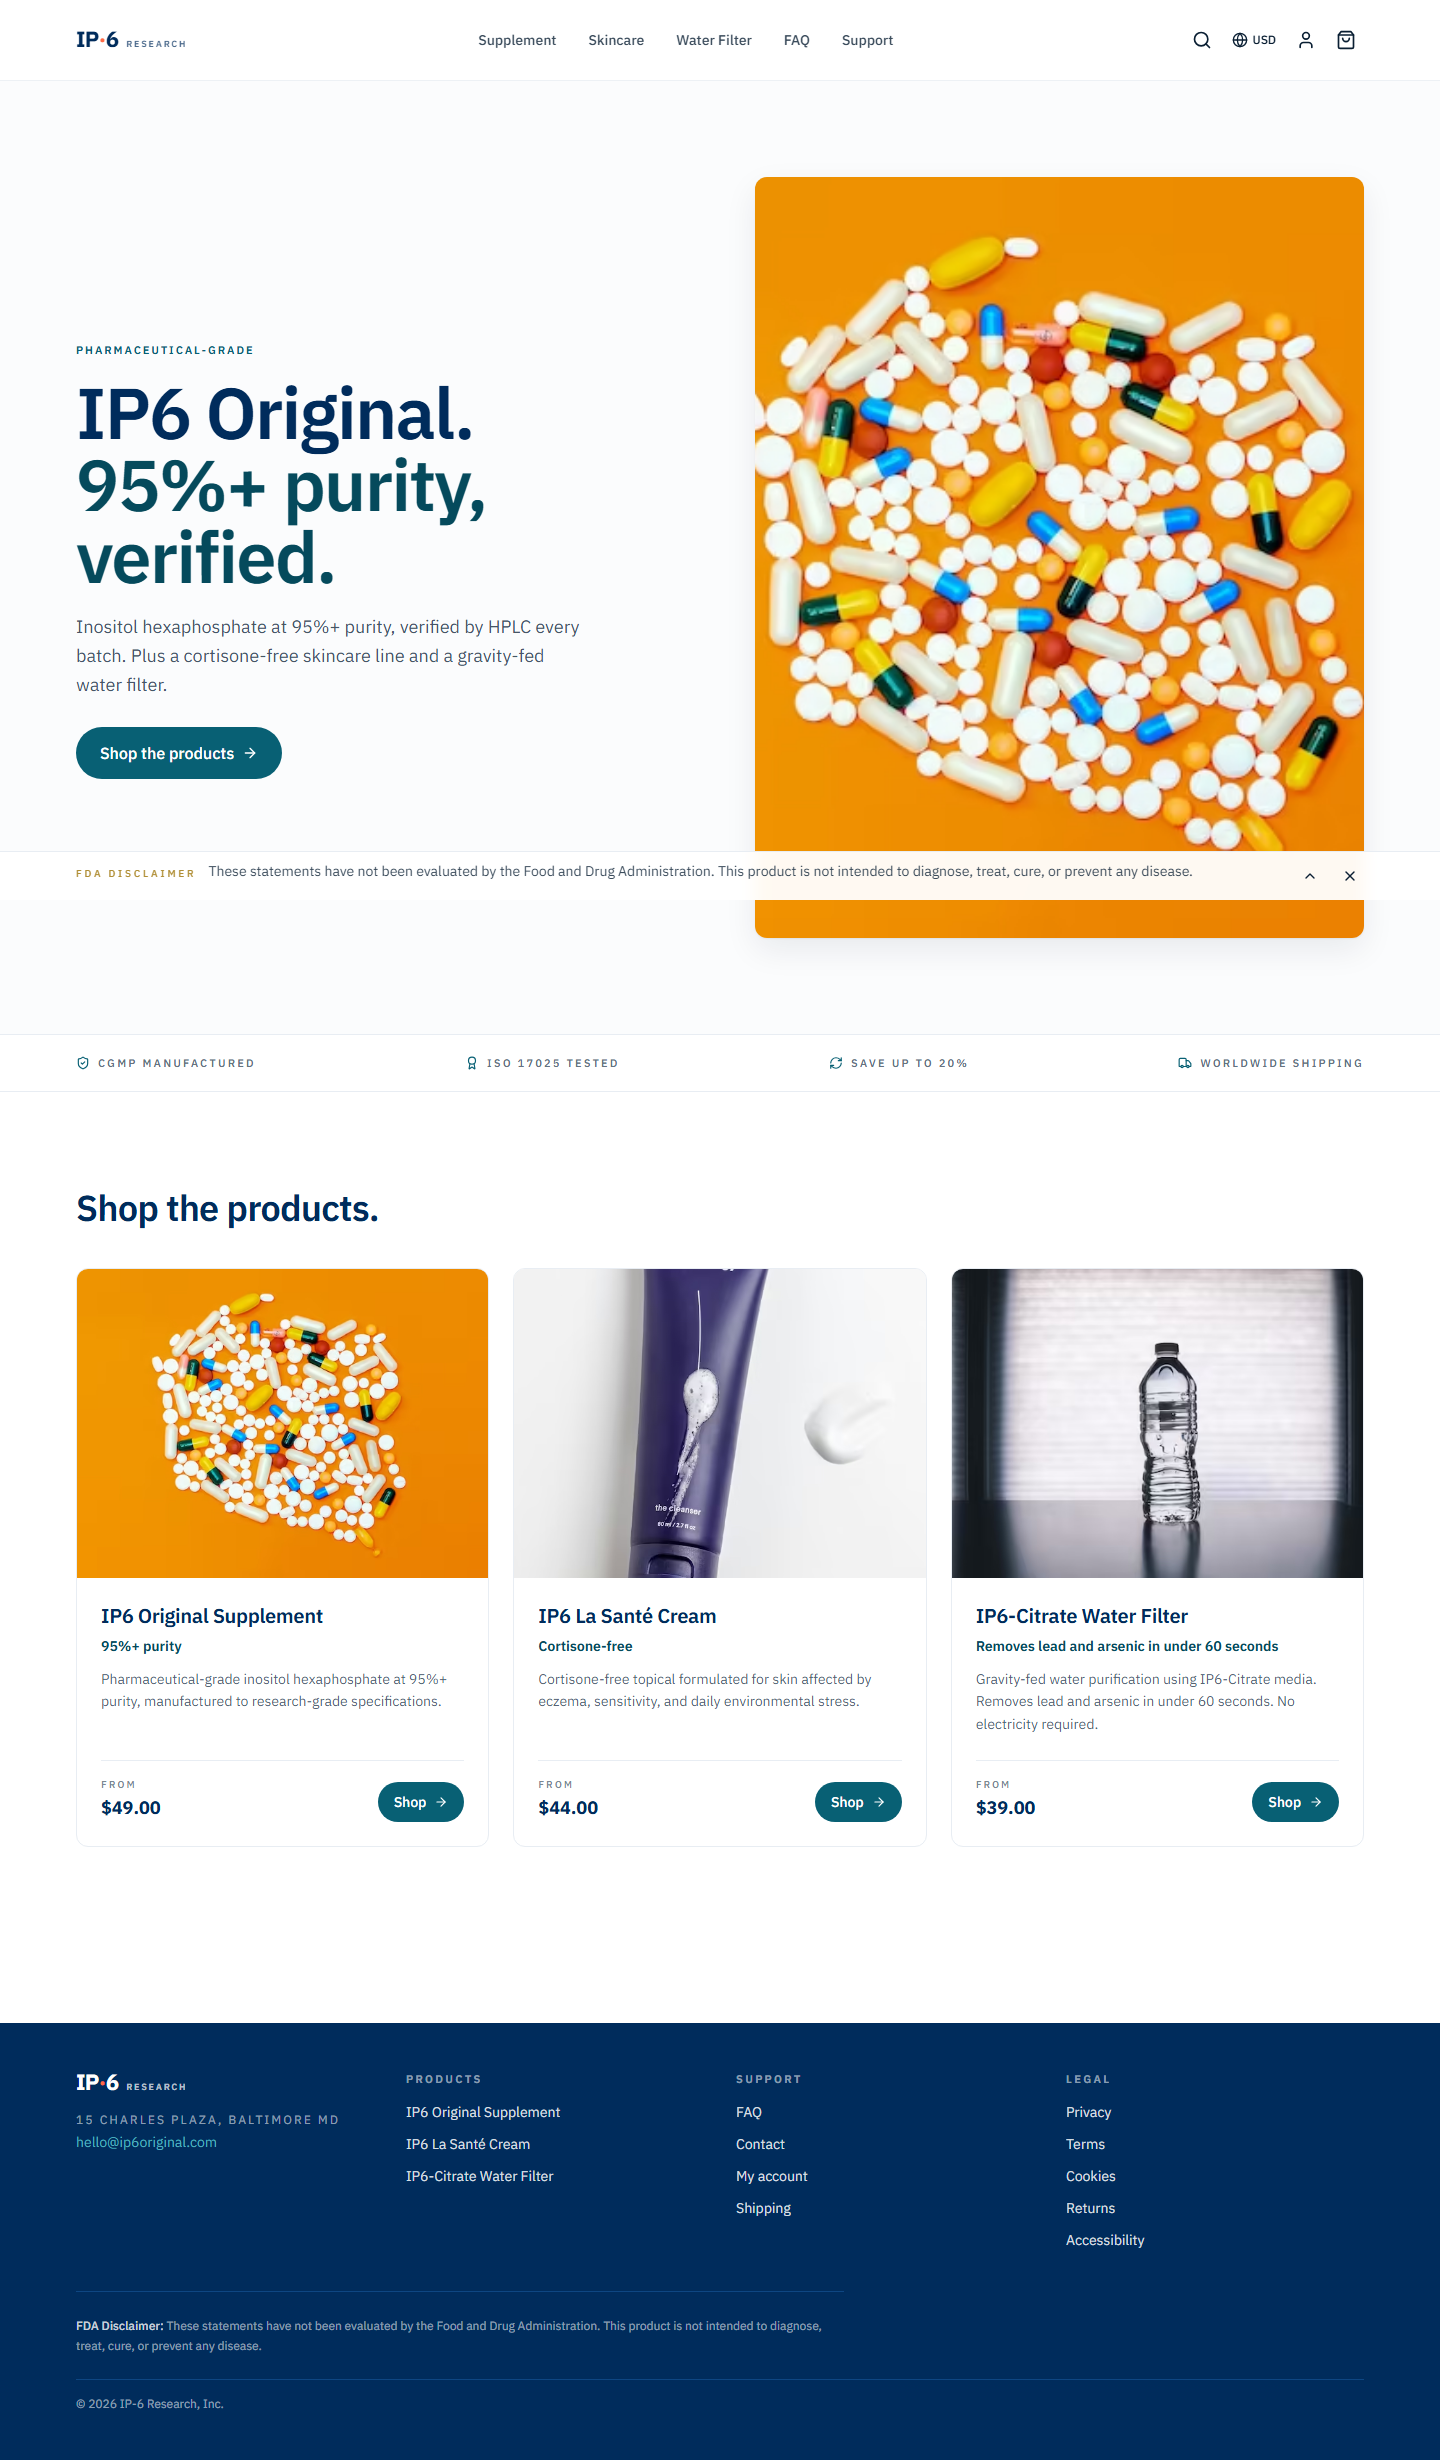
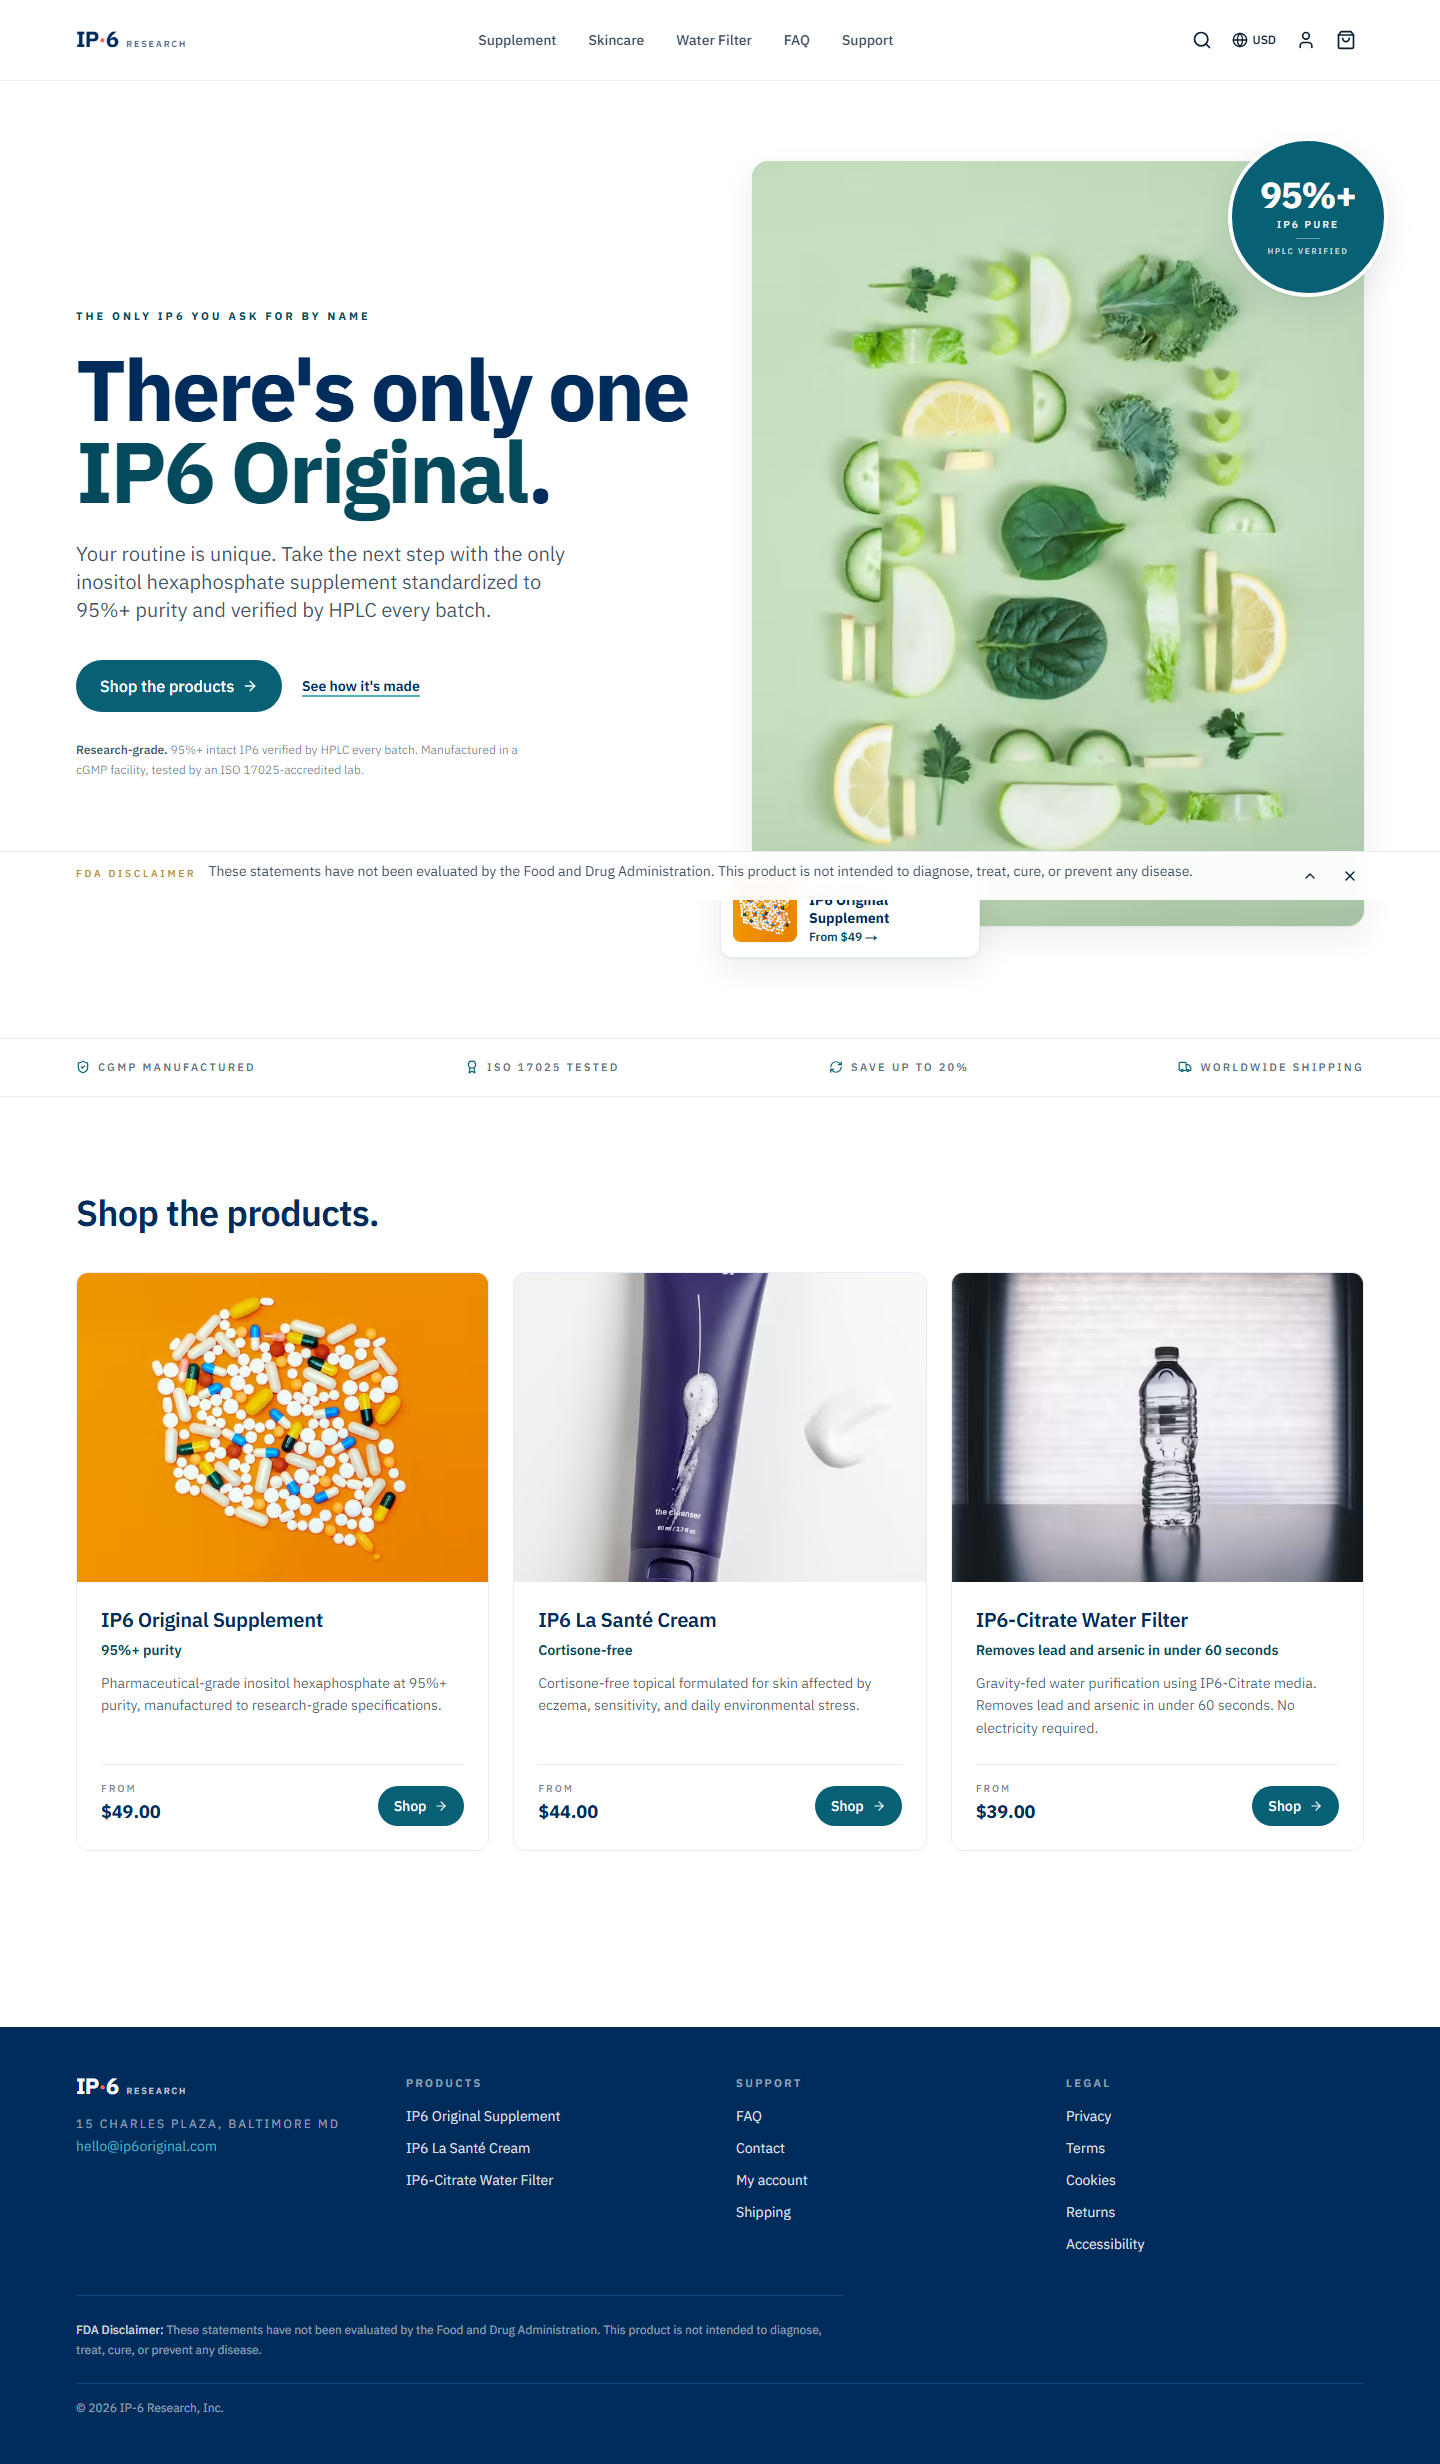
Dramatic hero overhaul: literal Ozempic-style composition
Direct one-to-one match with ozempic.com hero structure:
  Eyebrow:        "The only IP6 you ask for by name"
  Headline:       "There's only one IP6 Original."
                  (sky-blue accent on the brand name, oversized sans)
  Subhead:        Single sentence, lead-in voice
  Primary CTA:    Rounded teal pill, "Shop the products"
  Secondary:      Underlined inline link
  Disclaimer:     Tiny supporting "Research-grade." paragraph below CTA

Right column composition (3 stacked elements):
  - Lifestyle photograph filling a 4/5 panel with rounded corners
    (greens flatlay, wellness/plant-source coded; replaces an
    accidental surgical-room image from a bad Unsplash ID).
  - Floating circular badge top-right corner: "95%+ IP6 Pure /
    HPLC verified" — modeled after Ozempic's circular "Number one"
    callout. Sky-blue ground, white border, large bold number.
  - Floating product card bottom-left: Featured product label,
    IP6 Original Supplement name, price line. Mirrors the way
    Ozempic shows the pen alongside the patient photo.

Asset added
  s3://ip6original-assets-staging/hero/lifestyle.jpg
  CloudFront invalidation issued.

diff --git a/app/page.tsx b/app/page.tsx
@@ -13,41 +13,94 @@ export default function HomePage() {
 
   return (
     <>
-      {/* HERO */}
-      <section className="bg-cloud-100">
-        <div className="container py-16 lg:py-24 grid lg:grid-cols-[1.05fr_1fr] gap-10 items-center">
+      {/* HERO — Ozempic-style: text left, lifestyle photo right with floating badge + product overlay */}
+      <section className="relative bg-surface overflow-hidden">
+        <div className="container pt-12 lg:pt-20 pb-16 lg:pb-28 grid lg:grid-cols-2 gap-12 lg:gap-16 items-center">
+          {/* TEXT */}
           <div>
-            <p className="eyebrow">Pharmaceutical-grade</p>
+            <p className="text-[11px] uppercase tracking-[0.28em] text-sky-700 font-bold mb-6">
+              The only IP6 you ask for by name
+            </p>
             <h1
-              className="font-sans font-semibold text-navy-800 text-balance mt-4"
+              className="font-sans font-bold text-navy-800 text-balance"
               style={{
-                fontSize: "clamp(2.5rem, 5vw, 4.5rem)",
-                lineHeight: 1,
-                letterSpacing: "-0.025em",
+                fontSize: "clamp(3rem, 6vw, 5.75rem)",
+                lineHeight: 0.95,
+                letterSpacing: "-0.035em",
               }}
             >
-              IP6 Original.<br />
-              <span className="text-sky-700">95%+ purity, verified.</span>
+              There&apos;s only one <span className="text-sky-700">IP6 Original</span>.
             </h1>
-            <p className="mt-5 text-lg text-ink/75 leading-relaxed max-w-lg">
-              Inositol hexaphosphate at 95%+ purity, verified by HPLC every batch. Plus a cortisone-free skincare line and a gravity-fed water filter.
+            <p className="mt-7 text-lg lg:text-xl text-ink/75 leading-relaxed max-w-lg">
+              Your routine is unique. Take the next step with the only inositol hexaphosphate supplement standardized to 95%+ purity and verified by HPLC every batch.
             </p>
-            <div className="mt-7 flex flex-wrap items-center gap-4">
-              <Link href="#shop" className="btn-primary">
+            <div className="mt-9 flex flex-wrap items-center gap-5">
+              <Link href="#shop" className="btn-primary text-base">
                 Shop the products
                 <ArrowRight className="size-4" />
               </Link>
+              <Link href="/faq" className="text-sm font-semibold text-navy-800 hover:text-sky-700 underline underline-offset-4 decoration-sky-300 decoration-2">
+                See how it&apos;s made
+              </Link>
             </div>
+            <p className="mt-7 text-xs text-ink/55 max-w-md leading-relaxed">
+              <span className="font-semibold text-ink/75">Research-grade.</span> 95%+ intact IP6 verified by HPLC every batch. Manufactured in a cGMP facility, tested by an ISO 17025-accredited lab.
+            </p>
           </div>
-          <div className="relative aspect-[4/5] rounded-lg overflow-hidden shadow-card bg-cloud-200">
-            <Image
-              src={asset("products/supplement-1.jpg")}
-              alt="IP6 Original Supplement"
-              fill
-              priority
-              sizes="(min-width: 1024px) 540px, 100vw"
-              className="object-cover"
-            />
+
+          {/* IMAGE COMPOSITION */}
+          <div className="relative">
+            {/* Lifestyle photo as primary visual */}
+            <div className="relative aspect-[4/5] rounded-2xl overflow-hidden shadow-card bg-cloud-200">
+              <Image
+                src={asset("hero/lifestyle.jpg")}
+                alt="A daily wellness routine with IP6 Original Supplement."
+                fill
+                priority
+                sizes="(min-width:1024px) 580px, 100vw"
+                className="object-cover"
+              />
+            </div>
+
+            {/* Floating circular "95%+ pure" badge */}
+            <div className="absolute -top-4 -right-4 lg:-top-6 lg:-right-6 size-32 lg:size-40 rounded-full bg-sky-600 text-surface grid place-items-center text-center shadow-card border-4 border-surface">
+              <div>
+                <p className="font-sans font-bold leading-none" style={{ fontSize: "clamp(1.75rem, 2.6vw, 2.25rem)", letterSpacing: "-0.03em" }}>
+                  95%+
+                </p>
+                <p className="text-[10px] uppercase tracking-[0.22em] mt-1 font-semibold opacity-90">
+                  IP6 Pure
+                </p>
+                <div className="h-px w-6 bg-surface/40 mx-auto my-1.5" />
+                <p className="text-[8px] uppercase tracking-[0.22em] opacity-75 font-medium">
+                  HPLC verified
+                </p>
+              </div>
+            </div>
+
+            {/* Floating product card overlay (bottom-left) */}
+            <div className="absolute -bottom-6 -left-4 lg:-bottom-8 lg:-left-8 bg-surface rounded-lg shadow-card border border-cloud-300 p-3 flex items-center gap-3 max-w-[260px]">
+              <div className="relative size-16 shrink-0 rounded-md overflow-hidden bg-cloud-100">
+                <Image
+                  src={asset("products/supplement-1.jpg")}
+                  alt=""
+                  fill
+                  sizes="64px"
+                  className="object-cover"
+                />
+              </div>
+              <div className="min-w-0">
+                <p className="text-[10px] uppercase tracking-[0.22em] text-ink/55 font-semibold">
+                  Featured product
+                </p>
+                <p className="font-sans font-bold text-navy-800 text-sm leading-tight mt-0.5">
+                  IP6 Original Supplement
+                </p>
+                <p className="text-xs text-sky-700 font-semibold mt-0.5">
+                  From $49 →
+                </p>
+              </div>
+            </div>
           </div>
         </div>
       </section>
